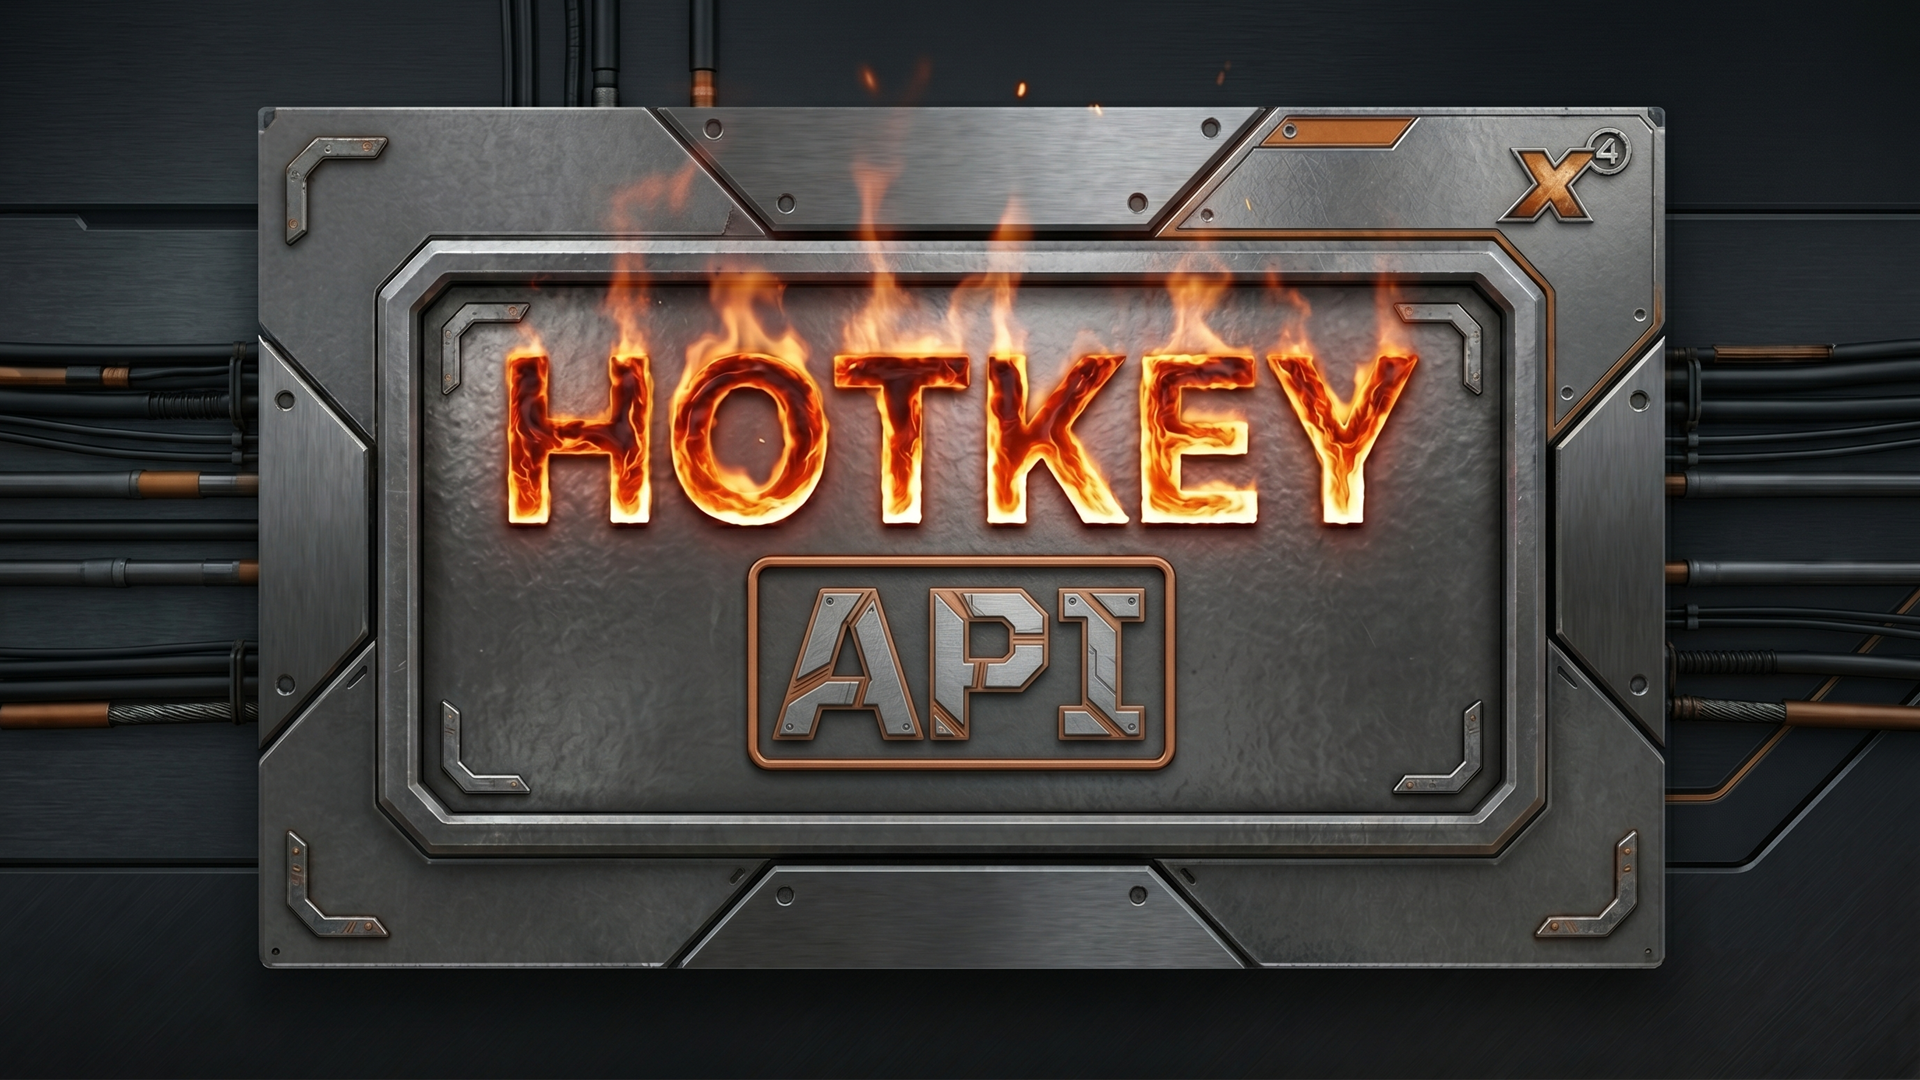
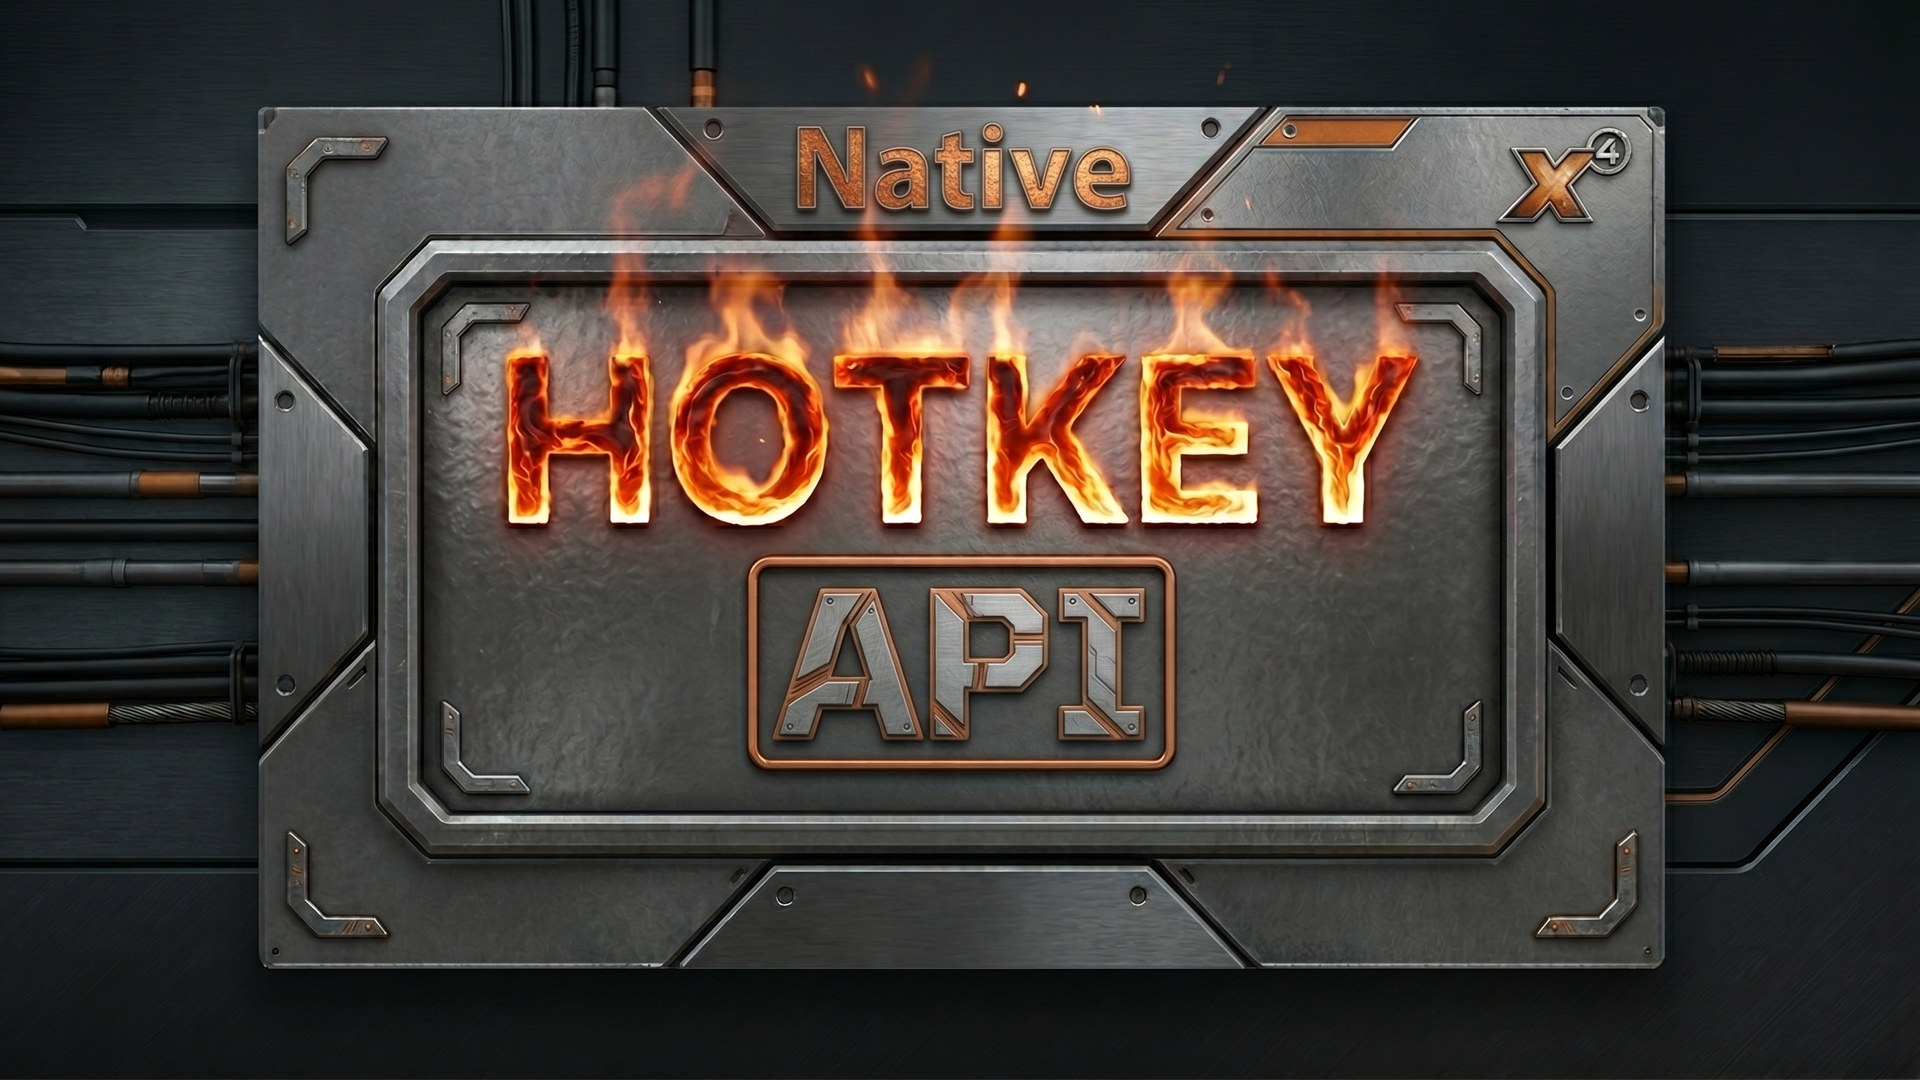
chore: renamed to Native Hotkey API

diff --git a/README.md b/README.md
@@ -1,4 +1,4 @@
-# Hotkey API
+# Native Hotkey API
 
 An API mod for X4: Foundations that lets other mods register custom hotkey actions - bindable by the player through the native game keybinding UI, with no external process and no dependency on *SirNukes Mod Support APIs*' own Hotkey API.
 
@@ -24,8 +24,8 @@ A hotkey fires once, on press (no separate press/release/repeat events). Each re
 
 ## Installation
 
-- **Steam Workshop**: [Hotkey API](https://steamcommunity.com/sharedfiles/filedetails/?id=3750545906)
-- **Nexus Mods**: [Hotkey API](https://www.nexusmods.com/x4foundations/mods/2181)
+- **Steam Workshop**: [Native Hotkey API](https://steamcommunity.com/sharedfiles/filedetails/?id=3750545906)
+- **Nexus Mods**: [Native Hotkey API](https://www.nexusmods.com/x4foundations/mods/2181)
 
 ## Player-facing UI
 